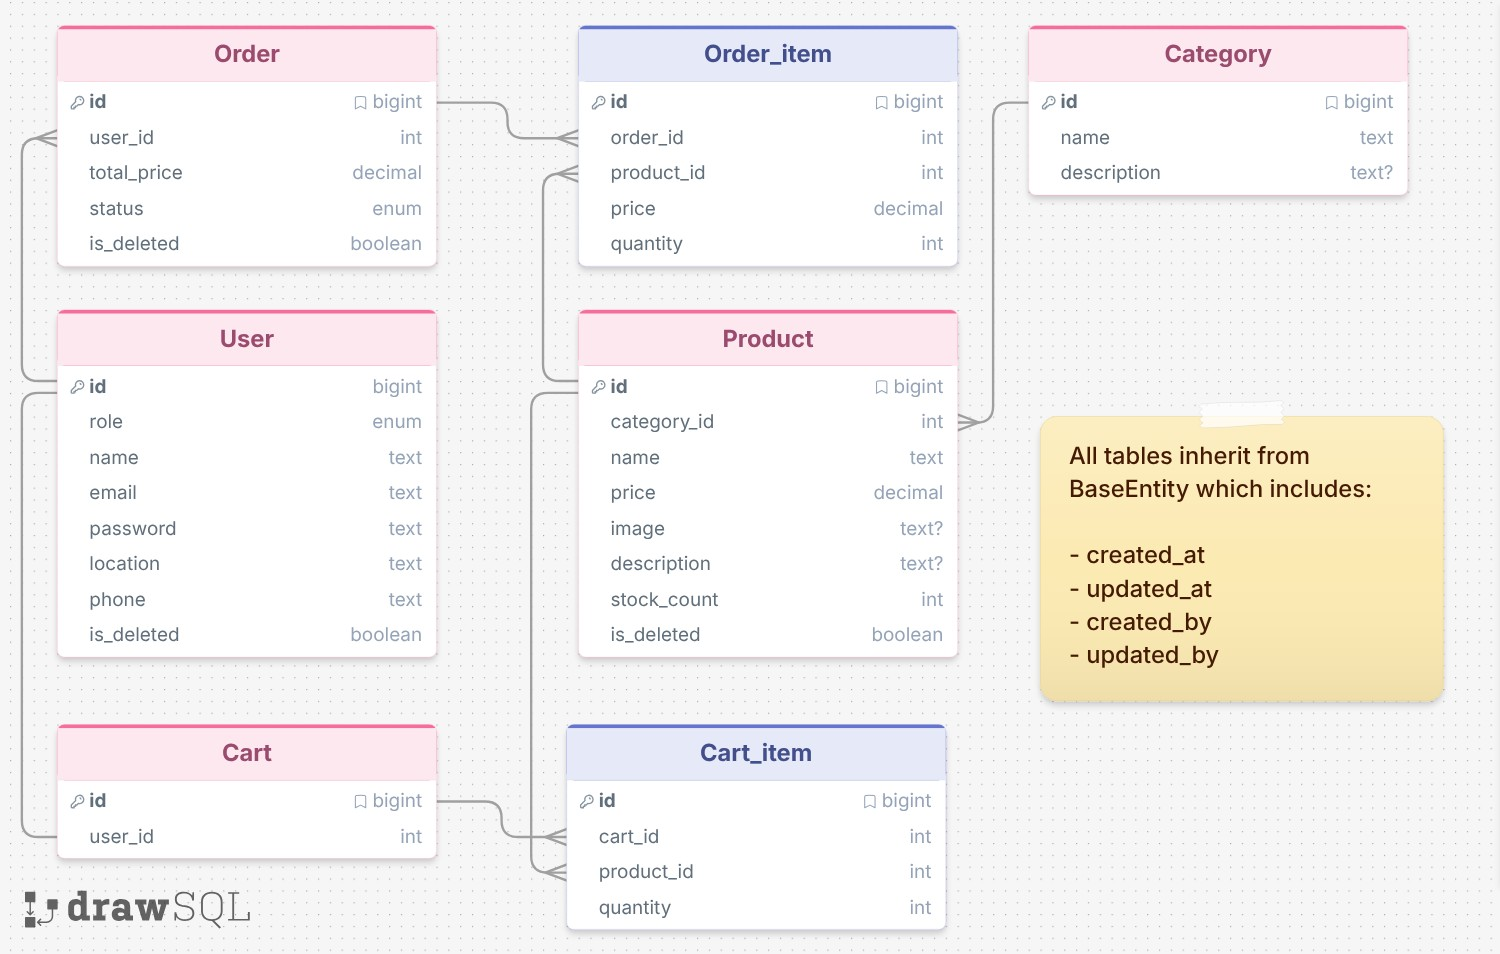
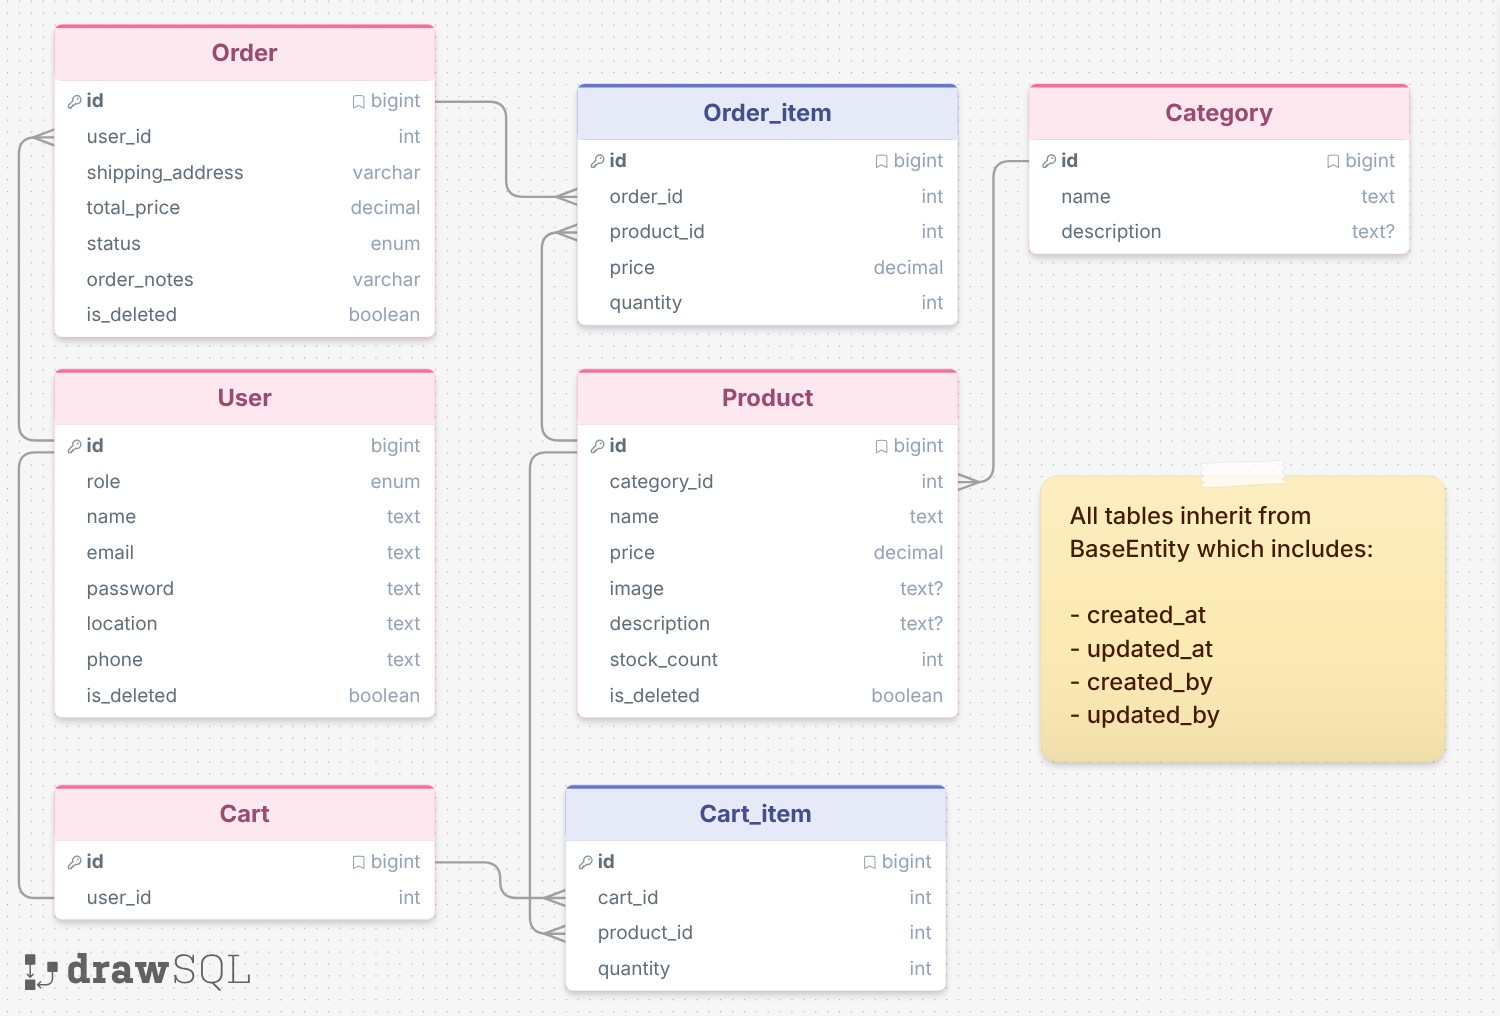
add shipping address and order notes to orders table + create order request dto

diff --git a/src/main/java/com/global/order_api/feature/order/OrderRepo.java b/src/main/java/com/global/order_api/feature/order/OrderRepo.java
@@ -1,16 +1,31 @@
 package com.global.order_api.feature.order;
 
 import com.global.order_api.core.base.BaseRepo;
+import org.springframework.data.domain.Page;
+import org.springframework.data.domain.Pageable;
+import org.springframework.data.jpa.domain.Specification;
 import org.springframework.data.jpa.repository.JpaSpecificationExecutor;
+import org.springframework.data.jpa.repository.Modifying;
+import org.springframework.data.jpa.repository.Query;
+import org.springframework.data.repository.query.Param;
+import org.springframework.web.bind.annotation.PathVariable;
 
 public interface OrderRepo extends BaseRepo<OrderEntity,Long> , JpaSpecificationExecutor<OrderEntity> {
 
-    /// Get Methods
-    /// Get All Orders + pagination + sort by time , price ,status
-    /// Get by user id
-    /// Writing Methods
-    /// create order
-    /// cancel order
-    /// soft delete
-    /// hard delete
+
+    //// GET METHODS
+    /// we comment findAll because => we extends JpaSpecificationExecutor
+    //// which make findAll work as pagination function
+
+    /// Hard Delete
+    @Modifying
+    @Query(value = "DELETE from orders where id = :id",nativeQuery = true)
+    void hardDelete(@Param("id")Long id);
+
+    /// Restore Order
+    @Modifying
+    @Query(value = "UPDATE orders set is_deleted=false where id = :id",nativeQuery = true)
+    void restoreOrder(@Param("id")Long id);
+
 }
+

diff --git a/src/main/java/com/global/order_api/feature/order/OrderSpecification.java b/src/main/java/com/global/order_api/feature/order/OrderSpecification.java
@@ -25,7 +25,7 @@ public class OrderSpecification {
 
                 /// order id
                 if (keyWord.matches("\\d+")) {
-                    keywordPredicates.add(criteriaBuilder.equal(root.get("id"), Long.valueOf(keyWord)))
+                    keywordPredicates.add(criteriaBuilder.equal(root.get("id"), Long.valueOf(keyWord)));
                 }
                 /// user details
                 /// join operations => because search in 2 tables User ,Order
@@ -83,6 +83,11 @@ public class OrderSpecification {
                 predicates.add(criteriaBuilder.lessThanOrEqualTo(root.get("createdAt"),
                         ///  2026-04-28 23:59:59 last second of day
                         filter.getToDate().atTime(23, 59, 59)));
+            }
+            if (filter.getIsDeleted() != null) {
+                predicates.add(criteriaBuilder.equal(root.get("isDeleted"), filter.getIsDeleted()));
+            } else {
+                predicates.add(criteriaBuilder.equal(root.get("isDeleted"), false));
             }
 
             return criteriaBuilder.and(predicates.toArray(new Predicate[0]));

diff --git a/src/main/java/com/global/order_api/feature/order/OrderEntity.java b/src/main/java/com/global/order_api/feature/order/OrderEntity.java
@@ -29,6 +29,12 @@ public class OrderEntity extends SoftDeletableEntity<Long> {
     @Column(name = "total_price",nullable = false)
     private BigDecimal totalPrice;
 
+    @Column(name = "shipping_address",length = 500)
+    private String shippingAddress;
+
+    @Column(name = "order_notes",nullable = true,length = 500)
+    private String orderNotes;
+
     @ManyToOne(fetch = FetchType.LAZY)
     @JoinColumn(name = "user_id")
     private UserEntity user;

diff --git a/src/main/java/com/global/order_api/feature/order/OrderRequestDto.java b/src/main/java/com/global/order_api/feature/order/OrderRequestDto.java
@@ -1,0 +1,16 @@
+package com.global.order_api.feature.order;
+
+import lombok.AllArgsConstructor;
+import lombok.Getter;
+import lombok.NoArgsConstructor;
+import lombok.Setter;
+
+@NoArgsConstructor
+@Getter
+@Setter
+@AllArgsConstructor
+public class OrderRequestDto {
+
+    private String shippingAddress;
+    private String orderNotes;
+}

diff --git a/src/main/java/com/global/order_api/feature/order/OrderFilterRequest.java b/src/main/java/com/global/order_api/feature/order/OrderFilterRequest.java
@@ -15,4 +15,5 @@ public class OrderFilterRequest {
     private BigDecimal maxPrice;
     private LocalDate fromDate;
     private LocalDate toDate;
+    private Boolean isDeleted = false;
 }
